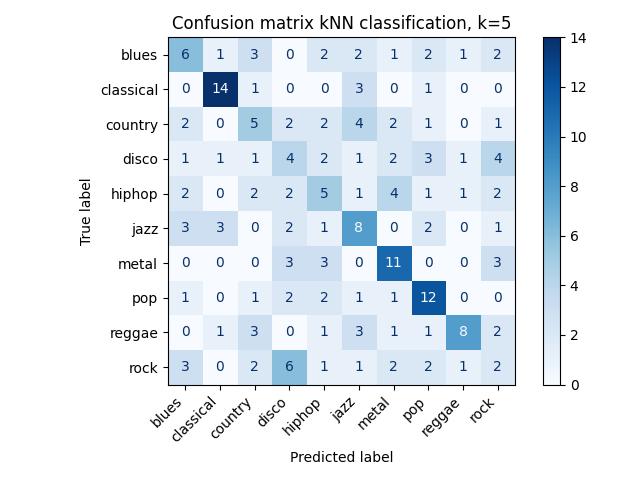
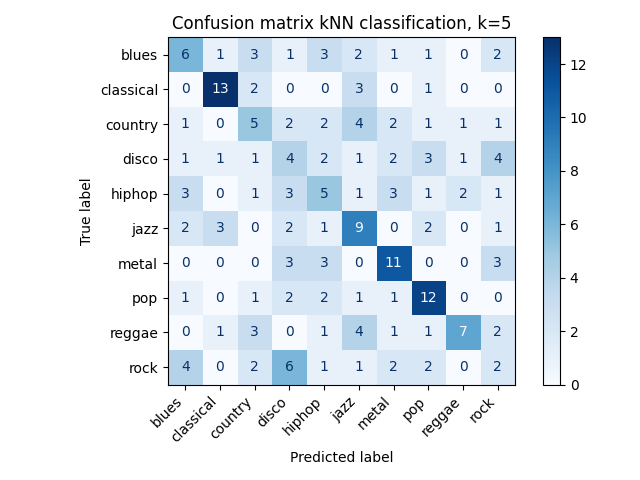
La til plotting oppgave 1

diff --git a/3knn.py b/3knn.py
@@ -85,7 +85,7 @@ datatypes = ['zero_cross_rate_mean', 'zero_cross_rate_std', 'rmse_mean',
 cols = [
     "spectral_rolloff_mean",
     "spectral_centroid_mean",
-    # "mfcc_1_mean",
+    "mfcc_1_mean",
     # "tempo"
 ]
 # beste: rmse_var mfcc_5_std
@@ -99,8 +99,9 @@ df = pd.read_csv("Music files/GenreClassData_30s.txt", sep="\t")
 labels = df["Genre"].values
 
 for feature1 in datatypes:
-    for feature2 in datatypes:
-        features = df[cols+[feature1,feature2]].values
+    # for feature2 in datatypes:
+        # features = df[cols+[feature1,feature2]].values
+        features = df[cols+[feature1]].values
 
         model_features = features[:model_datapoints]
         model_labels = labels[:model_datapoints]
@@ -114,6 +115,8 @@ for feature1 in datatypes:
         model_stds = np.sqrt(np.var(model_features, axis=0))
         model_features -= model_means
         model_features /= model_stds
+        # model_means = 1
+        # model_stds = 1
 
         right_guess = 0
         wrong_guess = 0
@@ -128,16 +131,19 @@ for feature1 in datatypes:
 
         percentage = right_guess/(right_guess+wrong_guess)
         correctpercentage = np.append(correctpercentage,percentage)
-        print(feature1,feature2,percentage)
+        # print(feature1,feature2,percentage)
+        print(feature1,percentage)
 
 
-best_index1 = np.argmax(correctpercentage) // len(datatypes)
-best_index2 = np.argmax(correctpercentage) % len(datatypes)
-
-best_type1 = datatypes[best_index1]
-best_type2 = datatypes[best_index2]
-print("beste type1,2:",best_type1,best_type2,correctpercentage[best_index1*len(datatypes)+best_index2])
-
-# Beste var 53.03% med spectrall_rolloff_mean + spectral_centroid_mean  og  rmse_var + mfcc_5_std 
+best_index = np.argmax(correctpercentage)
 
 
+print("Beste:",datatypes[best_index],correctpercentage[best_index])
+# Beste var 53.03% med spectrall_rolloff_mean + spectral_centroid_mean  og  rmse_var + mfcc_5_std med normalisering
+
+# best_index1 = best_index // len(datatypes)
+# best_index2 = best_index % len(datatypes)
+
+# best_type1 = datatypes[best_index1]
+# best_type2 = datatypes[best_index2]
+# print("beste type1,2:",best_type1,best_type2,correctpercentage[best_index1*len(datatypes)+best_index2])

diff --git a/1knn.py b/1knn.py
@@ -19,7 +19,8 @@ cols = [
     "mfcc_1_mean",
     "spectral_centroid_mean",
     "tempo",
-    # "rmse_var",
+    # "spectral_rolloff_var", # Det beste for å bytte ut tempo
+    # "rmse_var", # Det beste istedenfor tempo om akser normaliseres
     "Genre",
     "Type"
 ]
@@ -94,9 +95,9 @@ disp = ConfusionMatrixDisplay(confusion_matrix=confusion_matrix,
                             display_labels=genres,
                             # cmap=plt.cm.Blues
                             )
-
+# disp.plot()
 disp.plot(cmap="Blues")
 plt.xticks(rotation=45, ha="right")  # rotate x-axis labels
 plt.title("Confusion matrix kNN classification, k=5")
 plt.tight_layout()
-plt.savefig("plots/1knnconfusion")
+plt.savefig("plots/testknnconfusion")